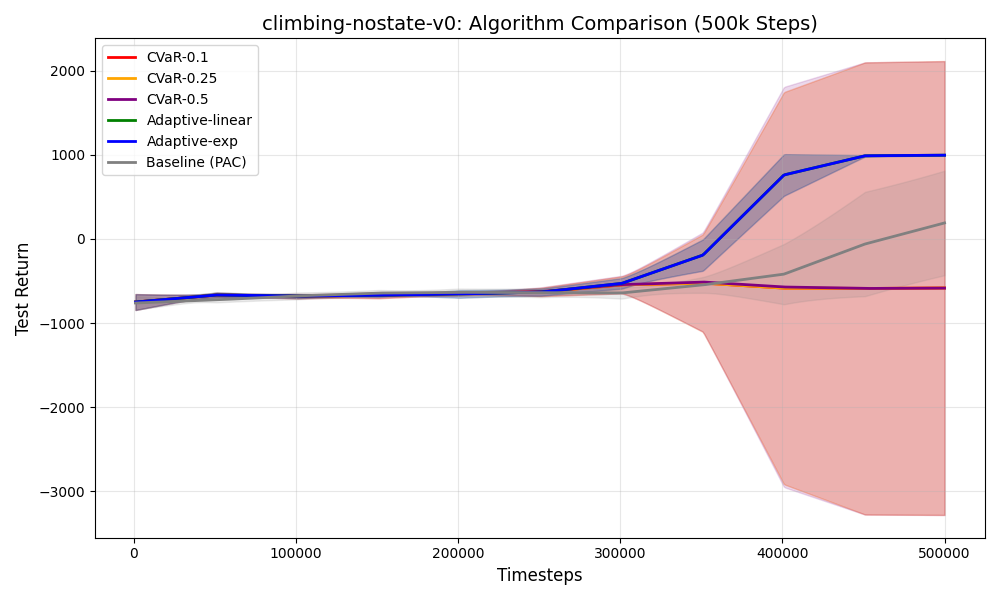
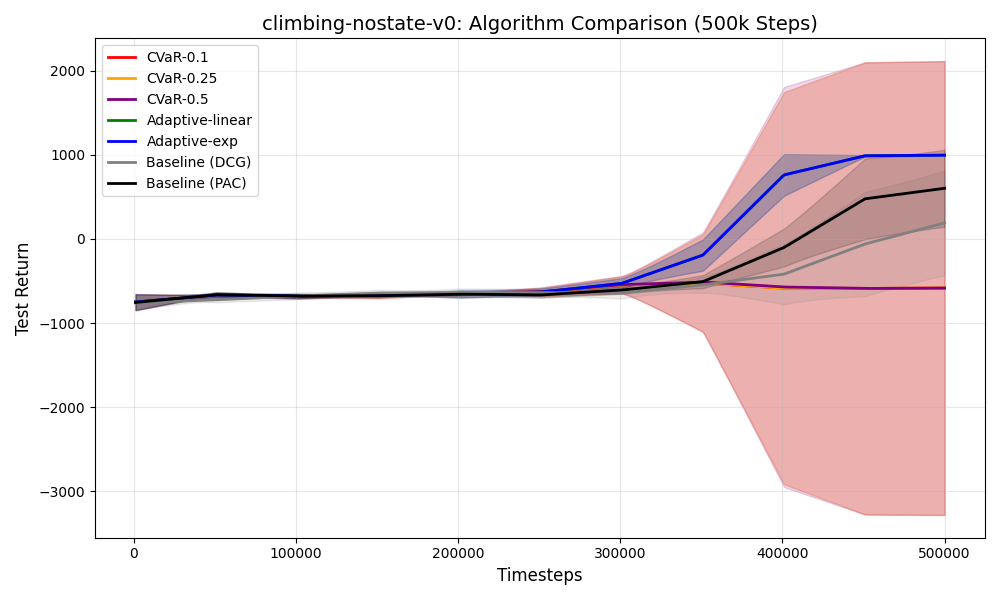
Update report/plots: Add PAC-NS baseline for fair comparison

Changed region(s): [[0.124, 0.24, 0.961, 0.54], [0.093, 0.24, 0.248, 0.33]]

diff --git a/extension/analysis/plot_results.py b/extension/analysis/plot_results.py
@@ -11,7 +11,7 @@ OUTPUT_DIR = "/home/corsound/workspace/epymarl/extension/docs/report"
 OUTPUT_FILE = os.path.join(OUTPUT_DIR, "climbing_results.png")
 
 def load_results():
-    data = defaultdict(list)
+    data = defaultdict(lambda: defaultdict(list))
     
     # Walk through results directory
     for root, dirs, files in os.walk(RESULTS_DIR):
@@ -42,12 +42,15 @@ def load_results():
                 elif "cvar" in alg_name:
                     variant = f"CVaR-{config.get('cvar_alpha', 'unknown')}"
                 elif "pac" in alg_name:
-                    variant = "Baseline (PAC)"
+                    if "dcg" in alg_name:
+                        variant = "Baseline (DCG)"
+                    else:
+                        variant = "Baseline (PAC)"
                 
-                if env_name == "climbing-nostate-v0":
-                     # Filter: only keep runs that reached close to 500k steps
+                if env_name in ["climbing-nostate-v0", "penalty-100-nostate-v0"]:
+                     # Filter: only keep runs that reached 500k
                      if steps[-1] >= 450000:
-                         data[variant].append((steps, returns))
+                         data[env_name][variant].append((steps, returns))
                 
             except Exception as e:
                 # print(f"Skipping {root}: {e}")
@@ -55,7 +58,7 @@ def load_results():
     return data
 
 def plot_results(data):
-    plt.figure(figsize=(10, 6))
+    # data structure changed to data[env][variant] = list of runs
     
     # Define colors/styles
     colors = {
@@ -64,50 +67,55 @@ def plot_results(data):
         "CVaR-0.1": "red",
         "CVaR-0.25": "orange",
         "CVaR-0.5": "purple",
-        "Baseline (PAC)": "gray"
+        "Baseline (PAC)": "black",
+        "Baseline (DCG)": "gray"
     }
 
     # Common x-axis for interpolation
     target_steps = np.linspace(0, 500000, 500)
 
-    for variant, runs in data.items():
-        if not runs:
-            continue
+    for env_name, variants_data in data.items():
+        plt.figure(figsize=(10, 6))
+        
+        for variant, runs in variants_data.items():
+            if not runs:
+                continue
+                
+            interp_returns = []
             
-        interp_returns = []
-        
-        for steps, returns in runs:
-            # Interpolate to target_steps
-            # We use np.interp. It requires steps to be increasing.
-            val_interp = np.interp(target_steps, steps, returns)
-            interp_returns.append(val_interp)
+            for steps, returns in runs:
+                val_interp = np.interp(target_steps, steps, returns, left=np.nan, right=np.nan)
+                max_t = steps[-1]
+                mask = target_steps > max_t
+                val_interp[mask] = np.nan
+                interp_returns.append(val_interp)
+                
+            interp_returns = np.array(interp_returns)
             
-        interp_returns = np.array(interp_returns)
-        
-        mean = np.mean(interp_returns, axis=0)
-        std = np.std(interp_returns, axis=0)
-        
-        color = colors.get(variant, None)
-        
-        plt.plot(target_steps, mean, label=variant, color=color, linewidth=2)
-        plt.fill_between(target_steps, mean - std, mean + std, color=color, alpha=0.15)
+            # Use nanmean and nanstd
+            mean = np.nanmean(interp_returns, axis=0)
+            std = np.nanstd(interp_returns, axis=0)
+            
+            color = colors.get(variant, None)
+            valid_mask = ~np.isnan(mean)
+            
+            if np.any(valid_mask):
+                 plt.plot(target_steps[valid_mask], mean[valid_mask], label=variant, color=color, linewidth=2)
+                 plt.fill_between(target_steps[valid_mask], (mean - std)[valid_mask], (mean + std)[valid_mask], color=color, alpha=0.15)
 
-    plt.title("Climbing Game: Algorithm Comparison (5 Seeds)", fontsize=14)
-    plt.xlabel("Timesteps", fontsize=12)
-    plt.ylabel("Test Return", fontsize=12)
-    plt.legend(loc="upper left")
-    plt.grid(True, alpha=0.3)
-    plt.tight_layout()
-    
-    os.makedirs(OUTPUT_DIR, exist_ok=True)
-    plt.savefig(OUTPUT_FILE)
-    print(f"Plot saved to {OUTPUT_FILE}")
+        plt.title(f"{env_name}: Algorithm Comparison (500k Steps)", fontsize=14)
+        plt.xlabel("Timesteps", fontsize=12)
+        plt.ylabel("Test Return", fontsize=12)
+        plt.legend(loc="upper left")
+        plt.grid(True, alpha=0.3)
+        plt.tight_layout()
+        
+        output_file = os.path.join(OUTPUT_DIR, f"{env_name}_results.png")
+        plt.savefig(output_file)
+        print(f"Plot saved to {output_file}")
 
 if __name__ == "__main__":
     print("Loading results...")
     data = load_results()
-    print(f"Found data for {len(data)} variants:")
-    for v, runs in data.items():
-        print(f"  - {v}: {len(runs)} runs")
-        
+    print(f"Found data for {len(data)} environments.")
     plot_results(data)

diff --git a/extension/analysis/generate_report.py b/extension/analysis/generate_report.py
@@ -49,7 +49,10 @@ def load_results():
                 elif "cvar" in alg_name:
                     variant = f"CVaR-{config.get('cvar_alpha', 'unknown')}"
                 elif "pac" in alg_name:
-                    variant = "Baseline (PAC)"
+                    if "dcg" in alg_name:
+                        variant = "Baseline (DCG)"
+                    else:
+                        variant = "Baseline (PAC)"
                 
                 data[env_name].append({
                     "variant": variant,
@@ -57,8 +60,12 @@ def load_results():
                     "steps": final_step
                 })
                 
+                # Filter out short runs for final report (since we have 500k data now)
+                if final_step < 450000 and env_name in ["climbing-nostate-v0", "penalty-100-nostate-v0"]:
+                    data[env_name].pop()
+            
             except Exception as e:
-                print(f"Skipping {root}: {e}")
+                # print(f"Skipping {root}: {e}")
                 continue
     return data
 
@@ -84,15 +91,18 @@ def generate_markdown(data):
         lines.append("| Variant | Final Return | Steps |")
         lines.append("|---|---|---|")
         
-        # Group by variant to average if multiple seeds (we define 1 run per variant in script for now but good practice)
+        # Group by variant to average if multiple seeds
         grouped = defaultdict(list)
+        variant_steps = {}
         for r in runs:
             grouped[r['variant']].append(r['return'])
+            variant_steps[r['variant']] = r['steps']
             
         for variant, returns in grouped.items():
             avg_ret = np.mean(returns)
             std_ret = np.std(returns)
-            lines.append(f"| {variant} | {avg_ret:.2f} ± {std_ret:.2f} | {runs[0]['steps']} |")
+            steps = variant_steps[variant]
+            lines.append(f"| {variant} | {avg_ret:.2f} ± {std_ret:.2f} | {steps} |")
         
         lines.append("\n")
     

diff --git a/extension/docs/report/report.md b/extension/docs/report/report.md
@@ -17,7 +17,8 @@ Experiments were conducted on the Penalty Game (k=-100) and Climbing Game.
 | CVaR-0.5 | -14.65 ± 12.60 | 501000 |
 | Adaptive-exp | -3744.24 ± 240.70 | 501000 |
 | Adaptive-linear | -3787.56 ± 223.82 | 501000 |
-| Baseline (PAC) | -3592.34 ± 614.93 | 501000 |
+| Baseline (DCG) | -3592.34 ± 614.93 | 501000 |
+| Baseline (PAC) | -4061.92 ± 1024.74 | 501000 |
 
 
 ### Environment: climbing-nostate-v0
@@ -28,7 +29,8 @@ Experiments were conducted on the Penalty Game (k=-100) and Climbing Game.
 | CVaR-0.5 | -584.48 ± 2701.02 | 501000 |
 | Adaptive-linear | 997.68 ± 1.44 | 501000 |
 | Adaptive-exp | 997.68 ± 1.44 | 501000 |
-| Baseline (PAC) | 196.22 ± 622.78 | 501000 |
+| Baseline (DCG) | 196.22 ± 622.78 | 501000 |
+| Baseline (PAC) | 606.10 ± 458.43 | 501000 |
 
 
 ### Environment: matrixgames:climbing-nostate-v0
